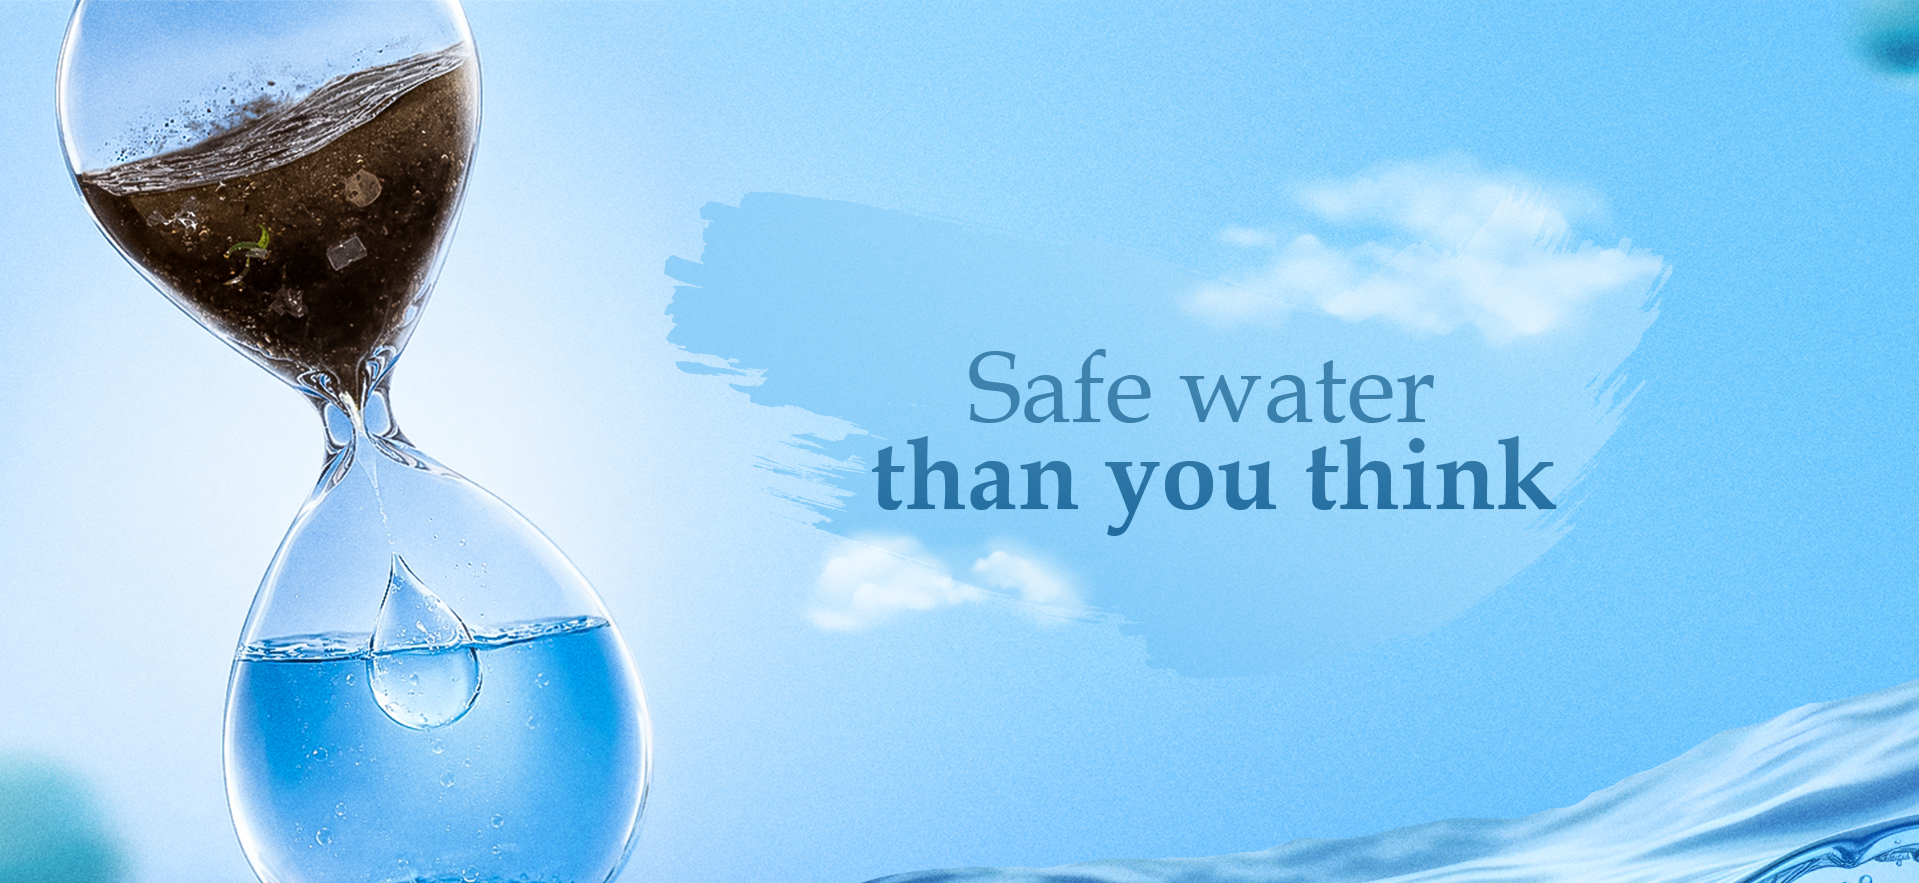
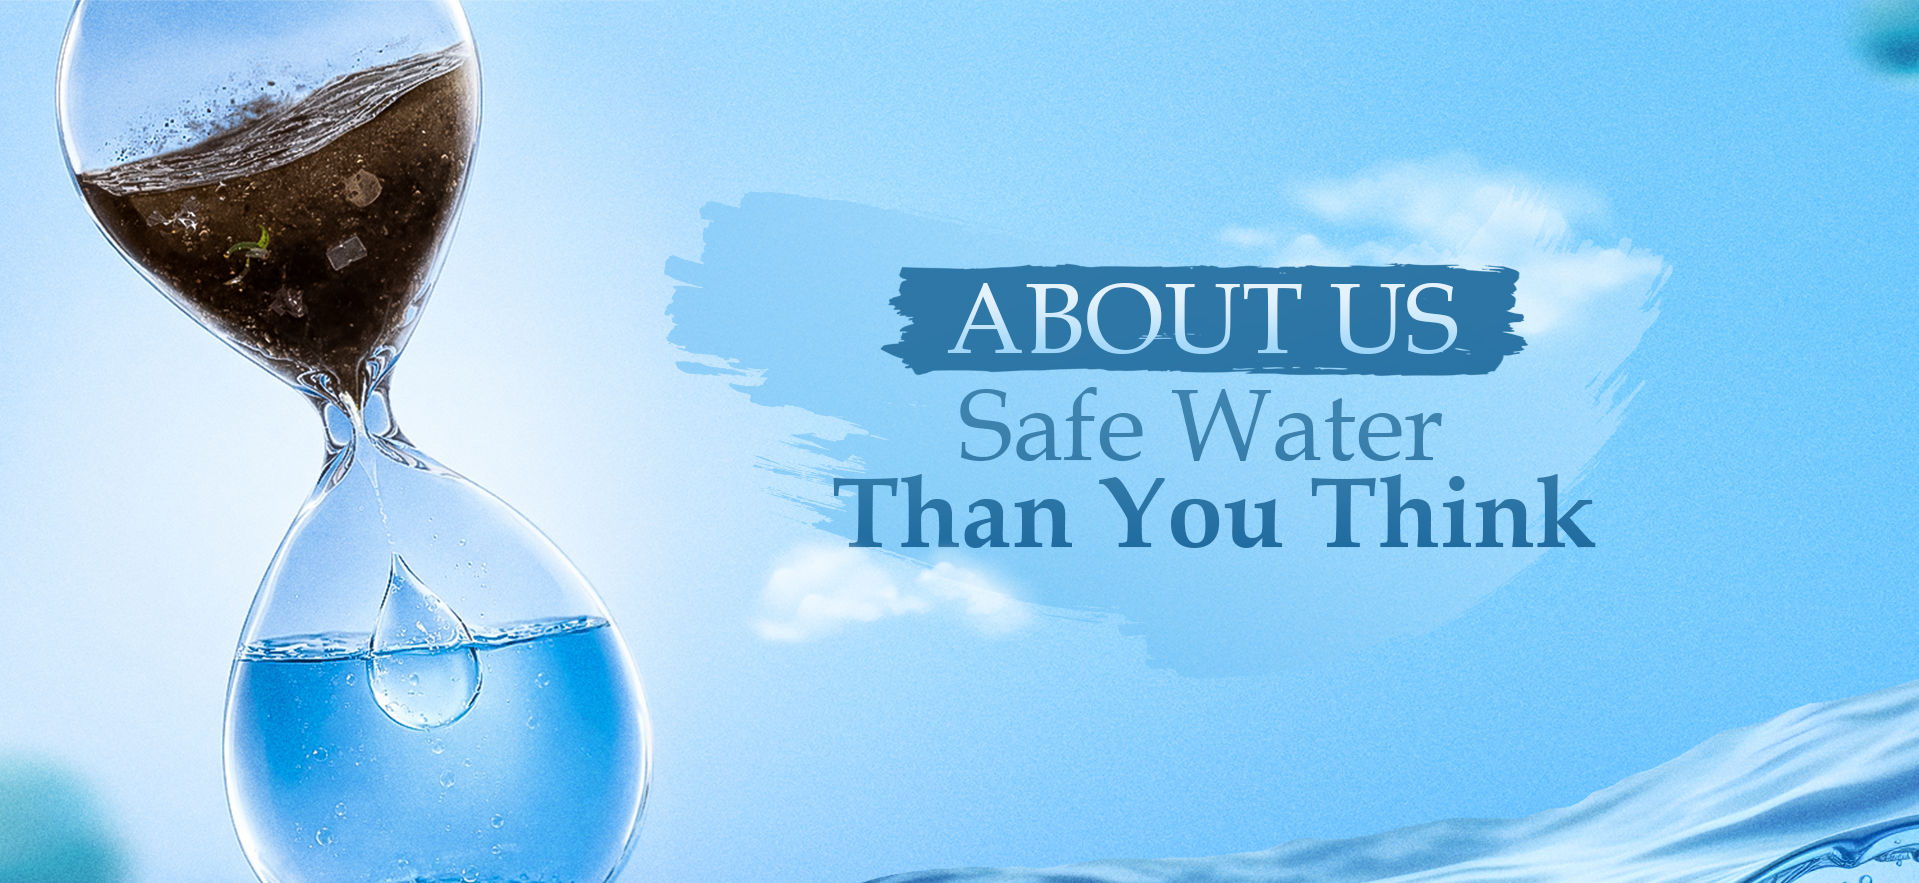
updated changes

Changed region(s): [[0.3997, 0.2752, 0.8301, 0.7339]]

diff --git a/resources/js/Components/HeroSection.jsx b/resources/js/Components/HeroSection.jsx
@@ -58,105 +58,143 @@ export function HeroSection() {
     };
 
     return (
-        <section id="home" className="relative min-h-screen overflow-hidden bg-white">
-            {/* Banner Slides */}
-            {banners.map((slide, i) => (
-                <div
-                    key={i}
-                    className="absolute inset-0 transition-opacity duration-1000"
-                    style={{
-                        opacity: i === currentSlide ? 1 : 0,
-                        backgroundImage: `url(${slide.image})`,
-                        backgroundSize: "cover",
-                        backgroundPosition: "center",
-                        filter: "brightness(1.1)",
-                        zIndex: 0,
-                    }}
-                />
-            ))}
+        <section id="home" className="relative mt-16 lg:mt-0 overflow-hidden bg-white">
 
-            {/* Navigation visibility gradient (Top) */}
-            <div className="absolute inset-x-0 top-0 h-40 bg-gradient-to-b from-black/50 via-black/20 to-transparent pointer-events-none" style={{ zIndex: 1 }} />
-
-            {/* Subtle bottom gradient to help text readability at the very bottom if needed */}
-            <div className="absolute inset-0 bg-gradient-to-b from-transparent via-transparent to-black/10" style={{ zIndex: 1 }} />
-
-            {/* Arrow Controls */}
-            <button
-                onClick={handlePrev}
-                className="hidden absolute left-4 top-1/2 -translate-y-1/2 z-20 h-11 w-11 items-center justify-center rounded-full border border-white/20 bg-white/10 text-white backdrop-blur-md transition-all hover:bg-white/20 hover:scale-110 active:scale-95"
-                aria-label="Previous slide"
-            >
-                <ChevronLeft className="h-6 w-6" />
-            </button>
-            <button
-                onClick={handleNext}
-                className="hidden absolute right-4 top-1/2 -translate-y-1/2 z-20 h-11 w-11 items-center justify-center rounded-full border border-white/20 bg-white/10 text-white backdrop-blur-md transition-all hover:bg-white/20 hover:scale-110 active:scale-95"
-                aria-label="Next slide"
-            >
-                <ChevronRight className="h-6 w-6" />
-            </button>
-
-            {/* Dot Indicators */}
-            <div className="absolute bottom-8 left-1/2 -translate-x-1/2 z-20 flex gap-2">
-                {banners.map((_, i) => (
-                    <button
+            {/* ── MOBILE: stack img tags so they never crop ── */}
+            <div className="block lg:hidden relative w-full">
+                {banners.map((slide, i) => (
+                    <div
                         key={i}
-                        onClick={() => handleDot(i)}
-                        className={`transition-all duration-300 rounded-full ${i === currentSlide
-                            ? "w-8 h-2.5 bg-primary"
-                            : "w-2.5 h-2.5 bg-white/40 hover:bg-white/70"
-                            }`}
-                        aria-label={`Go to slide ${i + 1}`}
-                    />
-                ))}
-            </div>
-
-            {/* Main Content */}
-            <div className="relative flex min-h-screen flex-col items-center justify-end pb-12 md:pb-20 px-6 text-center" style={{ zIndex: 10 }}>
-                <div className="mx-auto max-w-5xl">
-                    <div className="mb-2 flex justify-center">
-                        <span className="inline-flex items-center gap-2 rounded-full border border-black/10 bg-white/40 px-5 py-2 text-[10px] font-bold uppercase tracking-[0.3em] text-blue-900 backdrop-blur-sm shadow-xl">
-                            <span className="h-1.5 w-1.5 rounded-full bg-blue-600 animate-pulse" />
-                            Advanced Water Treatment in India
-                        </span>
+                        className="w-full transition-opacity duration-1000"
+                        style={{
+                            display: i === currentSlide ? 'block' : 'none',
+                        }}
+                    >
+                        <img
+                            src={slide.image}
+                            alt={`Banner ${i + 1}`}
+                            className="w-full h-auto"
+                        />
                     </div>
-                    {banners[currentSlide].heading && (
-                        <h1 className="mb-6 font-serif text-3xl font-bold leading-[1.2] tracking-tight text-blue-950 md:text-5xl lg:text-6xl transition-all duration-700 drop-shadow-sm">
-                            {banners[currentSlide].heading}
-                        </h1>
-                    )}
-                    <p className="hidden mx-auto mb-10 max-w-2xl text-base font-bold leading-relaxed text-blue-900/80 md:text-lg drop-shadow-sm">
-                        Discover India's most advanced iron removal and filtration systems.
-                        A legacy of trust, built on <span className="text-blue-950 font-black">uncompromising purity</span> and innovation.
-                    </p>
+                ))}
 
-                    <div className="flex flex-col items-center justify-center gap-6 sm:flex-row mt-2">
+                {/* Mobile Buttons + Dots */}
+                <div className="flex flex-col items-center gap-2 w-full px-4 py-2 bg-white/90">
+                    {/* Dot indicators in-flow */}
+                    <div className="flex gap-1.5 justify-center">
+                        {banners.map((_, i) => (
+                            <button
+                                key={i}
+                                onClick={() => handleDot(i)}
+                                className={`transition-all duration-300 rounded-full ${i === currentSlide
+                                    ? "w-6 h-1.5 bg-primary"
+                                    : "w-1.5 h-1.5 bg-slate-300 hover:bg-slate-500"
+                                    }`}
+                                aria-label={`Go to slide ${i + 1}`}
+                            />
+                        ))}
+                    </div>
+                    <span className="inline-flex items-center gap-1.5 rounded-full border border-black/10 bg-blue-50 px-3 py-1 text-[8px] font-bold uppercase tracking-[0.15em] text-blue-900 shadow">
+                        <span className="h-1 w-1 rounded-full bg-blue-600 animate-pulse" />
+                        Advanced Water Treatment in India
+                    </span>
+                    <div className="flex flex-row gap-2 w-full">
                         <Button
                             asChild
-                            size="lg"
-                            className="h-14 bg-primary px-10 text-[13px] font-bold uppercase tracking-widest text-white shadow-[0_10px_30px_-10px_rgba(12,59,94,0.5)] transition-all hover:bg-primary/90 hover:scale-105 active:scale-95"
+                            size="sm"
+                            className="h-7 bg-primary px-3 text-[8px] font-bold uppercase tracking-wider text-white flex-1"
                         >
-                            <Link href={appBase + "/products/standard"}>Explore Our Products</Link>
+                            <Link href={appBase + "/products/standard"} className="whitespace-nowrap">Explore Products</Link>
                         </Button>
                         <Button
                             asChild
                             variant="outline"
-                            size="lg"
-                            className="h-14 border-blue-900/20 bg-blue-50/50 px-10 text-[13px] font-bold uppercase tracking-widest text-blue-900 backdrop-blur-md transition-all hover:bg-white/60 hover:border-blue-900/40 hover:scale-105 active:scale-95"
+                            size="sm"
+                            className="h-7 border-blue-900/30 bg-blue-50 px-3 text-[8px] font-bold uppercase tracking-wider text-blue-900 flex-1"
                         >
-                            <Link href={appBase + "/contact"}>Consult an Expert</Link>
+                            <Link href={appBase + "/contact"} className="whitespace-nowrap">Consult Expert</Link>
                         </Button>
                     </div>
                 </div>
+            </div>
 
-                <a
-                    href="#about"
-                    className="absolute bottom-4 left-1/2 -translate-x-1/2 animate-bounce text-slate-400 transition-colors hover:text-blue-600"
-                    aria-label="Scroll to next section"
-                >
-                    <ArrowDown className="h-5 w-5" />
-                </a>
+            {/* ── DESKTOP: full-screen cover background ── */}
+            <div className="hidden lg:block relative min-h-screen">
+                {banners.map((slide, i) => (
+                    <div
+                        key={i}
+                        className="absolute inset-0 transition-opacity duration-1000"
+                        style={{
+                            opacity: i === currentSlide ? 1 : 0,
+                            backgroundImage: `url(${slide.image})`,
+                            backgroundSize: 'cover',
+                            backgroundPosition: 'center',
+                            filter: 'brightness(1.1)',
+                            zIndex: 0,
+                        }}
+                    />
+                ))}
+
+                {/* Desktop gradient overlay */}
+                <div className="absolute inset-x-0 top-0 h-40 bg-gradient-to-b from-black/50 via-black/20 to-transparent pointer-events-none" style={{ zIndex: 1 }} />
+                <div className="absolute inset-0 bg-gradient-to-b from-transparent via-transparent to-black/10" style={{ zIndex: 1 }} />
+
+                {/* Desktop dot indicators */}
+                <div className="absolute bottom-8 left-1/2 -translate-x-1/2 z-20 flex gap-2">
+                    {banners.map((_, i) => (
+                        <button
+                            key={i}
+                            onClick={() => handleDot(i)}
+                            className={`transition-all duration-300 rounded-full ${i === currentSlide
+                                ? "w-8 h-2.5 bg-primary"
+                                : "w-2.5 h-2.5 bg-white/40 hover:bg-white/70"
+                                }`}
+                            aria-label={`Go to slide ${i + 1}`}
+                        />
+                    ))}
+                </div>
+
+                {/* Desktop content overlay */}
+                <div className="relative flex min-h-screen flex-col items-center justify-end pb-20 px-6 text-center" style={{ zIndex: 10 }}>
+                    <div className="mx-auto max-w-5xl w-full">
+                        <div className="mb-4 flex justify-center">
+                            <span className="inline-flex items-center gap-2 rounded-full border border-black/10 bg-white/40 px-5 py-2 text-[10px] font-bold uppercase tracking-[0.3em] text-blue-900 backdrop-blur-sm shadow-xl">
+                                <span className="h-1.5 w-1.5 rounded-full bg-blue-600 animate-pulse" />
+                                Advanced Water Treatment in India
+                            </span>
+                        </div>
+                        {banners[currentSlide].heading && (
+                            <h1 className="mb-6 font-serif text-5xl font-bold leading-[1.2] tracking-tight text-blue-950 lg:text-6xl transition-all duration-700 drop-shadow-sm">
+                                {banners[currentSlide].heading}
+                            </h1>
+                        )}
+                        <div className="flex flex-row items-center justify-center gap-6">
+                            <Button
+                                asChild
+                                size="lg"
+                                className="h-14 bg-primary px-10 text-[13px] font-bold uppercase tracking-widest text-white shadow-[0_10px_30px_-10px_rgba(12,59,94,0.5)] transition-all hover:bg-primary/90 hover:scale-105 active:scale-95"
+                            >
+                                <Link href={appBase + "/products/standard"}>Explore Our Products</Link>
+                            </Button>
+                            <Button
+                                asChild
+                                variant="outline"
+                                size="lg"
+                                className="h-14 border-blue-900/20 bg-blue-50/50 px-10 text-[13px] font-bold uppercase tracking-widest text-blue-900 backdrop-blur-md transition-all hover:bg-white/60 hover:border-blue-900/40 hover:scale-105 active:scale-95"
+                            >
+                                <Link href={appBase + "/contact"}>Consult an Expert</Link>
+                            </Button>
+                        </div>
+                    </div>
+
+                    <a
+                        href="#about"
+                        className="absolute bottom-4 left-1/2 -translate-x-1/2 animate-bounce text-slate-400 transition-colors hover:text-blue-600"
+                        aria-label="Scroll to next section"
+                    >
+                        <ArrowDown className="h-5 w-5" />
+                    </a>
+                </div>
             </div>
         </section>
     );

diff --git a/resources/js/Pages/About.jsx b/resources/js/Pages/About.jsx
@@ -168,7 +168,7 @@ export default function About() {
                             </h2>
                             <div className="space-y-12">
                                 <p className="text-lg leading-relaxed text-muted-foreground/90 font-light">
-                                    Founded in 1991 under the brand name <span className="text-foreground font-semibold">Richus</span>, we began our journey as pioneers in water systems. In line with our sustainable vision and global expansion goals, we later rebranded as <span className="text-foreground font-semibold">Dubhe Richus</span>. Today, we are the <span className="text-foreground font-semibold">largest manufacturer of iron removal water treatment plants in South India</span>. Our advanced systems are capable of treating water from all sources, backed by a dedicated R&D division that drives continuous innovation in the water treatment sector.
+                                    Dubhe Richus began its journey in 1991 under the brand name <span className="text-foreground font-semibold">Richus</span>, pioneering water filtration and treatment services. Guided by a long-term vision for sustainability and global growth, the brand later evolved into <span className="text-foreground font-semibold">Dubhe Richus</span>. Today, we are one of India’s leading water treatment companies and the <span className="text-foreground font-semibold">largest manufacturer of iron removal water treatment plants in Kerala, India</span>. Our high-performance water filtration systems are designed to purify water from every source. Supported by a dedicated research and development team, we continuously drive innovation and deliver reliable, future-ready water treatment technology.
                                 </p>
                                 <p className="text-lg leading-relaxed text-muted-foreground/90 font-light">
                                     In addition to supplying our product directly to customers, we also operate specialized divisions for Sewage Water Treatment (SWT) and Effluent Treatment Plants (ETP). Our goal is to ensure that both industrial and domestic water treatment plants offer professional systems for various needs. With our vast product portfolio, we ensure that our customers receive the most efficient and sustainable water treatment systems available.
